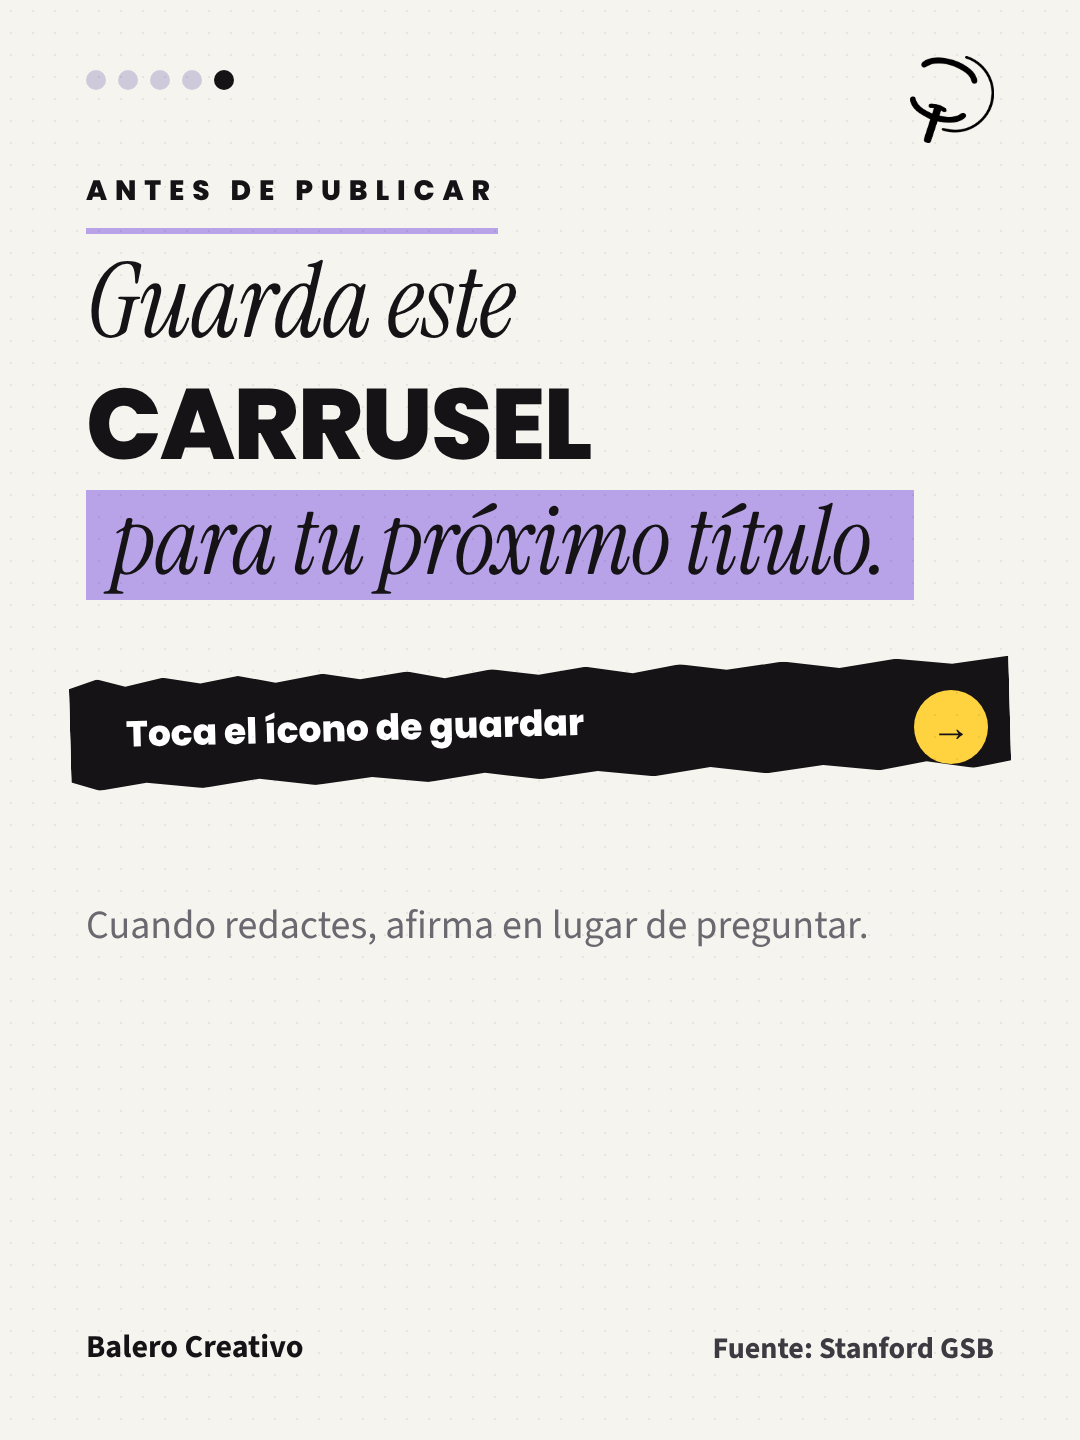
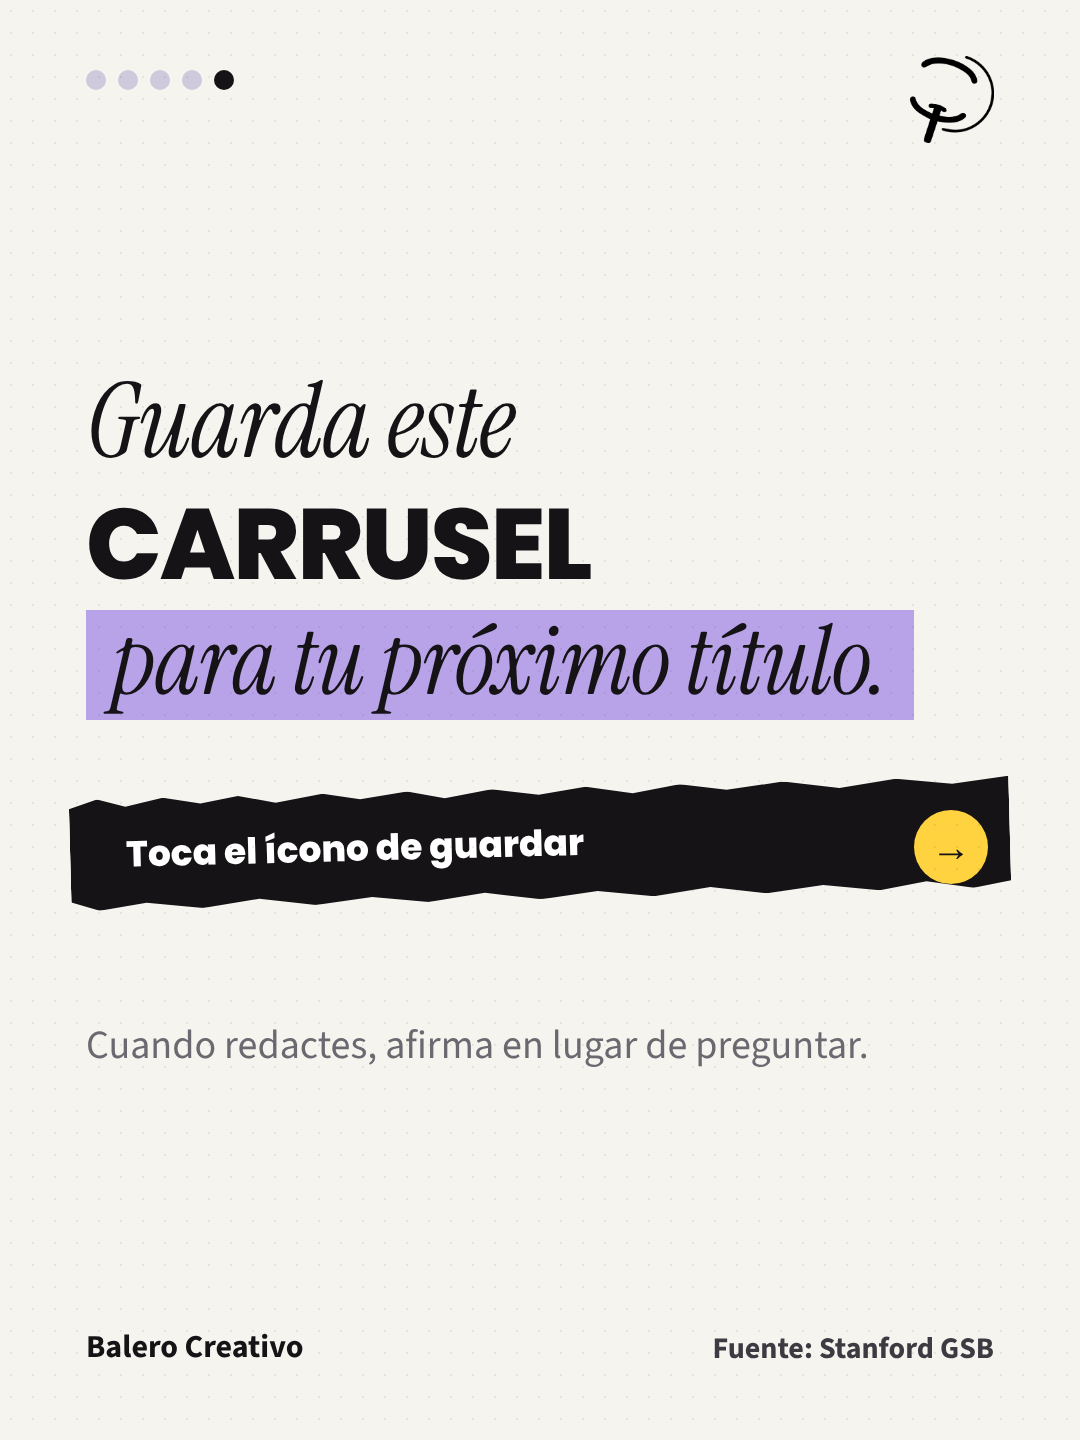
Stanford: ilustración en portada y contenido del slide final centrado
Claude-Session: https://claude.ai/code/session_01Bq7ZC7FDz5LcdZBgNXTuBm

Changed region(s): [[0.0611, 0.125, 0.9472, 0.6562], [0.0917, 0.7188, 0.7944, 0.75]]

diff --git a/clientes/balero/diseno/2026-11/estilo-editorial/semana/stanford.html b/clientes/balero/diseno/2026-11/estilo-editorial/semana/stanford.html
@@ -60,4 +60,4 @@ body{background:#888}
 .meter{position:absolute;left:86px;right:86px;background:#fff;border:4px solid #151316;border-radius:26px;box-shadow:10px 12px 0 #151316;overflow:hidden}
 
 .bigy{position:absolute;left:86px;font:800 330px/.9 Poppins;background:#FFD23F;padding:10px 30px 24px;letter-spacing:-.04em}
-</style></head><body><div class="s" id="s1"><div class="dots"><i style="background:#151316"></i><i style="background:#cfc9dc"></i><i style="background:#cfc9dc"></i><i style="background:#cfc9dc"></i><i style="background:#cfc9dc"></i></div><img class="logo" src="/home/user/balero/.claude/skills/balero-imagenes/assets/logo-balero.png"><div class="serif" style="position:absolute;left:86px;top:340px;font-size:92px;line-height:1">Tu título con pregunta</div><div class="big" style="top:490px;font-size:100px;line-height:1.08">TE CUESTA</div><div class="serif" style="position:absolute;left:86px;top:610px;font-size:150px;line-height:1"><span class="hl">interacción.</span></div><div class="card" style="left:86px;right:86px;top:930px;height:230px;padding:0 50px;display:flex;align-items:center;justify-content:space-between;gap:30px"><div style="font:800 52px/1.1 Poppins">¿Cuánto cuesta un lead?</div><div class="sticker" style="position:static;transform:none;background:#B9A3E8;font-size:30px;white-space:nowrap">↓ interacción</div></div><div class="foot"><span>Balero Creativo</span></div><div style="position:absolute;right:86px;bottom:70px;font:800 30px Poppins;letter-spacing:.14em">DESLIZA →</div></div><div class="s" id="s2"><div class="dots"><i style="background:#cfc9dc"></i><i style="background:#151316"></i><i style="background:#cfc9dc"></i><i style="background:#cfc9dc"></i><i style="background:#cfc9dc"></i></div><img class="logo" src="/home/user/balero/.claude/skills/balero-imagenes/assets/logo-balero.png"><div class="chip">LOS DATOS</div><div class="t" style="top:290px;font-size:100px">Qué analizó<br><span class="serif" style="font-size:1.25em;text-transform:none;font-weight:400;background:#FFD23F;padding:0 18px">Stanford.</span></div><div style="position:absolute;left:86px;top:620px;width:908px;height:150px;background:#fff;border:4px solid #151316;border-radius:26px;box-shadow:8px 9px 0 #151316;display:flex;flex-direction:row;align-items:center;gap:34px;padding:0 44px"><div style="font:800 64px/1 Poppins;min-width:370px;white-space:nowrap">53,030</div><div style="font:600 34px/1.2 'Source Sans Pro',sans-serif">posts de Reddit</div></div><div style="position:absolute;left:86px;top:790px;width:908px;height:150px;background:#fff;border:4px solid #151316;border-radius:26px;box-shadow:8px 9px 0 #151316;display:flex;flex-direction:row;align-items:center;gap:34px;padding:0 44px"><div style="font:800 64px/1 Poppins;min-width:370px;white-space:nowrap">3,078,791</div><div style="font:600 34px/1.2 'Source Sans Pro',sans-serif">artículos académicos</div></div><div style="position:absolute;left:86px;top:960px;width:908px;height:150px;background:#B9A3E8;border:4px solid #151316;border-radius:26px;box-shadow:8px 9px 0 #151316;display:flex;flex-direction:row;align-items:center;gap:34px;padding:0 44px"><div style="font:800 64px/1 Poppins;min-width:370px;white-space:nowrap">22,743</div><div style="font:600 34px/1.2 'Source Sans Pro',sans-serif">experimentos A/B de titulares</div></div><div style="position:absolute;left:86px;top:1130px;width:908px;height:150px;background:#fff;border:4px solid #151316;border-radius:26px;box-shadow:8px 9px 0 #151316;display:flex;flex-direction:row;align-items:center;gap:34px;padding:0 44px"><div style="font:800 64px/1 Poppins;min-width:370px;white-space:nowrap">400</div><div style="font:600 34px/1.2 'Source Sans Pro',sans-serif">personas en un estudio de laboratorio</div></div><div class="foot"><span>Balero Creativo</span></div></div><div class="s" id="s3"><div class="dots"><i style="background:#cfc9dc"></i><i style="background:#cfc9dc"></i><i style="background:#151316"></i><i style="background:#cfc9dc"></i><i style="background:#cfc9dc"></i></div><img class="logo" src="/home/user/balero/.claude/skills/balero-imagenes/assets/logo-balero.png"><div class="chip">LA CONCLUSIÓN</div><div class="t" style="top:290px;font-size:100px">La pregunta<br>suena a <span class="serif" style="font-size:1.25em;text-transform:none;font-weight:400;background:#FFD23F;padding:0 18px">duda.</span></div><div class="body" style="top:610px;width:880px">Los títulos en forma de pregunta reducen la interacción porque el lector los percibe como menos informativos.</div><div class="meter" style="top:830px;height:400px;padding:36px 44px"><div class="lbl" style="left:44px;top:30px;font-size:26px;color:#3d3a42">SE PERCIBE QUÉ TAN INFORMATIVO (ILUSTRATIVO)</div><div class="lbl" style="left:44px;top:150px;white-space:nowrap">Con pregunta</div><div style="position:absolute;left:350px;top:135px;width:190px;height:70px;background:#e6e1ef;border:4px solid #151316;border-radius:35px"></div><div class="lbl" style="left:44px;top:270px;white-space:nowrap">Que afirma</div><div style="position:absolute;left:350px;top:255px;width:500px;height:70px;background:#B9A3E8;border:4px solid #151316;border-radius:35px"></div></div><div class="foot"><span>Balero Creativo</span></div></div><div class="s" id="s4"><div class="dots"><i style="background:#cfc9dc"></i><i style="background:#cfc9dc"></i><i style="background:#cfc9dc"></i><i style="background:#151316"></i><i style="background:#cfc9dc"></i></div><img class="logo" src="/home/user/balero/.claude/skills/balero-imagenes/assets/logo-balero.png"><div class="chip">QUÉ HACER</div><div class="t" style="top:290px;font-size:100px">Afirma,<br>no <span class="serif" style="font-size:1.25em;text-transform:none;font-weight:400;background:#FFD23F;padding:0 18px">preguntes.</span></div><div class="body" style="top:610px;width:880px">Pruébalo en pocas piezas antes de reescribir todo.</div><div class="cmp bad" style="top:820px;height:190px"><div class="m">✗</div><div style="display:flex;align-items:center;gap:36px"><small style="display:inline;margin:0;white-space:nowrap">ASÍ NO</small><span>¿Cuánto cuesta un lead?</span></div></div><div class="cmp good" style="top:1060px;height:190px"><div class="m">✓</div><div style="display:flex;align-items:center;gap:36px"><small style="display:inline;margin:0;white-space:nowrap">ASÍ SÍ</small><span>Cuánto cuesta un lead</span></div></div><div class="foot"><span>Balero Creativo</span></div></div><div class="s" id="s5"><div class="dots"><i style="background:#cfc9dc"></i><i style="background:#cfc9dc"></i><i style="background:#cfc9dc"></i><i style="background:#cfc9dc"></i><i style="background:#151316"></i></div><img class="logo" src="/home/user/balero/.claude/skills/balero-imagenes/assets/logo-balero.png"><div class="kick" style="top:170px">Antes de publicar</div><div class="serif" style="position:absolute;left:86px;top:250px;font-size:104px;line-height:1">Guarda este</div><div class="big" style="top:370px;font-size:100px;line-height:1.08">CARRUSEL</div><div class="serif" style="position:absolute;left:86px;top:490px;font-size:96px;line-height:1"><span class="hl">para tu próximo título.</span></div><div class="tape" style="top:668px;font-family:Poppins;font-weight:800;font-size:36px">Toca el ícono de guardar</div><div class="arrow" style="top:668px;transform:translateY(22px)">→</div><div class="body" style="top:900px;width:880px">Cuando redactes, afirma en lugar de preguntar.</div><div class="foot"><span>Balero Creativo</span></div><div style="position:absolute;right:86px;bottom:70px;font:700 30px 'Source Sans Pro';color:#3d3a42;text-align:right;max-width:640px">Fuente: Stanford GSB</div></div></body></html>
+</style></head><body><div class="s" id="s1"><div class="dots"><i style="background:#151316"></i><i style="background:#cfc9dc"></i><i style="background:#cfc9dc"></i><i style="background:#cfc9dc"></i><i style="background:#cfc9dc"></i></div><img class="logo" src="/home/user/balero/.claude/skills/balero-imagenes/assets/logo-balero.png"><div class="serif" style="position:absolute;left:86px;top:280px;font-size:92px;line-height:1">Tu título con pregunta</div><div class="big" style="top:430px;font-size:100px;line-height:1.08">TE CUESTA</div><div class="serif" style="position:absolute;left:86px;top:550px;font-size:150px;line-height:1"><span class="hl">interacción.</span></div><div class="card" style="left:86px;right:86px;top:790px;height:200px;padding:0 50px;display:flex;align-items:center;justify-content:space-between;gap:30px"><div style="font:800 52px/1.1 Poppins">¿Cuánto cuesta un lead?</div><div class="sticker" style="position:static;transform:none;background:#B9A3E8;font-size:30px;white-space:nowrap">↓ interacción</div></div><div style="position:absolute;left:86px;top:1050px;width:908px;height:210px"><div style="position:absolute;left:0px;bottom:0;width:110px;height:205px;background:#B9A3E8;border:4px solid #151316;border-radius:18px 18px 0 0;box-shadow:6px 7px 0 #151316"></div><div style="position:absolute;left:150px;bottom:0;width:110px;height:140px;background:#cdbff0;border:4px solid #151316;border-radius:18px 18px 0 0;box-shadow:6px 7px 0 #151316"></div><div style="position:absolute;left:300px;bottom:0;width:110px;height:75px;background:#e6e1ef;border:4px solid #151316;border-radius:18px 18px 0 0;box-shadow:6px 7px 0 #151316"></div><div style="position:absolute;left:440px;top:10px;width:468px;height:190px;background:#FFD23F;border:5px solid #151316;border-radius:38px;box-shadow:10px 12px 0 #151316;font:800 160px/190px Poppins;text-align:center">?</div></div><div class="foot"><span>Balero Creativo</span></div><div style="position:absolute;right:86px;bottom:70px;font:800 30px Poppins;letter-spacing:.14em">DESLIZA →</div></div><div class="s" id="s2"><div class="dots"><i style="background:#cfc9dc"></i><i style="background:#151316"></i><i style="background:#cfc9dc"></i><i style="background:#cfc9dc"></i><i style="background:#cfc9dc"></i></div><img class="logo" src="/home/user/balero/.claude/skills/balero-imagenes/assets/logo-balero.png"><div class="chip">LOS DATOS</div><div class="t" style="top:290px;font-size:100px">Qué analizó<br><span class="serif" style="font-size:1.25em;text-transform:none;font-weight:400;background:#FFD23F;padding:0 18px">Stanford.</span></div><div style="position:absolute;left:86px;top:620px;width:908px;height:150px;background:#fff;border:4px solid #151316;border-radius:26px;box-shadow:8px 9px 0 #151316;display:flex;flex-direction:row;align-items:center;gap:34px;padding:0 44px"><div style="font:800 64px/1 Poppins;min-width:370px;white-space:nowrap">53,030</div><div style="font:600 34px/1.2 'Source Sans Pro',sans-serif">posts de Reddit</div></div><div style="position:absolute;left:86px;top:790px;width:908px;height:150px;background:#fff;border:4px solid #151316;border-radius:26px;box-shadow:8px 9px 0 #151316;display:flex;flex-direction:row;align-items:center;gap:34px;padding:0 44px"><div style="font:800 64px/1 Poppins;min-width:370px;white-space:nowrap">3,078,791</div><div style="font:600 34px/1.2 'Source Sans Pro',sans-serif">artículos académicos</div></div><div style="position:absolute;left:86px;top:960px;width:908px;height:150px;background:#B9A3E8;border:4px solid #151316;border-radius:26px;box-shadow:8px 9px 0 #151316;display:flex;flex-direction:row;align-items:center;gap:34px;padding:0 44px"><div style="font:800 64px/1 Poppins;min-width:370px;white-space:nowrap">22,743</div><div style="font:600 34px/1.2 'Source Sans Pro',sans-serif">experimentos A/B de titulares</div></div><div style="position:absolute;left:86px;top:1130px;width:908px;height:150px;background:#fff;border:4px solid #151316;border-radius:26px;box-shadow:8px 9px 0 #151316;display:flex;flex-direction:row;align-items:center;gap:34px;padding:0 44px"><div style="font:800 64px/1 Poppins;min-width:370px;white-space:nowrap">400</div><div style="font:600 34px/1.2 'Source Sans Pro',sans-serif">personas en un estudio de laboratorio</div></div><div class="foot"><span>Balero Creativo</span></div></div><div class="s" id="s3"><div class="dots"><i style="background:#cfc9dc"></i><i style="background:#cfc9dc"></i><i style="background:#151316"></i><i style="background:#cfc9dc"></i><i style="background:#cfc9dc"></i></div><img class="logo" src="/home/user/balero/.claude/skills/balero-imagenes/assets/logo-balero.png"><div class="chip">LA CONCLUSIÓN</div><div class="t" style="top:290px;font-size:100px">La pregunta<br>suena a <span class="serif" style="font-size:1.25em;text-transform:none;font-weight:400;background:#FFD23F;padding:0 18px">duda.</span></div><div class="body" style="top:610px;width:880px">Los títulos en forma de pregunta reducen la interacción porque el lector los percibe como menos informativos.</div><div class="meter" style="top:830px;height:400px;padding:36px 44px"><div class="lbl" style="left:44px;top:30px;font-size:26px;color:#3d3a42">SE PERCIBE QUÉ TAN INFORMATIVO (ILUSTRATIVO)</div><div class="lbl" style="left:44px;top:150px;white-space:nowrap">Con pregunta</div><div style="position:absolute;left:350px;top:135px;width:190px;height:70px;background:#e6e1ef;border:4px solid #151316;border-radius:35px"></div><div class="lbl" style="left:44px;top:270px;white-space:nowrap">Que afirma</div><div style="position:absolute;left:350px;top:255px;width:500px;height:70px;background:#B9A3E8;border:4px solid #151316;border-radius:35px"></div></div><div class="foot"><span>Balero Creativo</span></div></div><div class="s" id="s4"><div class="dots"><i style="background:#cfc9dc"></i><i style="background:#cfc9dc"></i><i style="background:#cfc9dc"></i><i style="background:#151316"></i><i style="background:#cfc9dc"></i></div><img class="logo" src="/home/user/balero/.claude/skills/balero-imagenes/assets/logo-balero.png"><div class="chip">QUÉ HACER</div><div class="t" style="top:290px;font-size:100px">Afirma,<br>no <span class="serif" style="font-size:1.25em;text-transform:none;font-weight:400;background:#FFD23F;padding:0 18px">preguntes.</span></div><div class="body" style="top:610px;width:880px">Pruébalo en pocas piezas antes de reescribir todo.</div><div class="cmp bad" style="top:820px;height:190px"><div class="m">✗</div><div style="display:flex;align-items:center;gap:36px"><small style="display:inline;margin:0;white-space:nowrap">ASÍ NO</small><span>¿Cuánto cuesta un lead?</span></div></div><div class="cmp good" style="top:1060px;height:190px"><div class="m">✓</div><div style="display:flex;align-items:center;gap:36px"><small style="display:inline;margin:0;white-space:nowrap">ASÍ SÍ</small><span>Cuánto cuesta un lead</span></div></div><div class="foot"><span>Balero Creativo</span></div></div><div class="s" id="s5"><div class="dots"><i style="background:#cfc9dc"></i><i style="background:#cfc9dc"></i><i style="background:#cfc9dc"></i><i style="background:#cfc9dc"></i><i style="background:#151316"></i></div><img class="logo" src="/home/user/balero/.claude/skills/balero-imagenes/assets/logo-balero.png"><div class="serif" style="position:absolute;left:86px;top:370px;font-size:104px;line-height:1">Guarda este</div><div class="big" style="top:490px;font-size:100px;line-height:1.08">CARRUSEL</div><div class="serif" style="position:absolute;left:86px;top:610px;font-size:96px;line-height:1"><span class="hl">para tu próximo título.</span></div><div class="tape" style="top:788px;font-family:Poppins;font-weight:800;font-size:36px">Toca el ícono de guardar</div><div class="arrow" style="top:788px;transform:translateY(22px)">→</div><div class="body" style="top:1020px;width:880px">Cuando redactes, afirma en lugar de preguntar.</div><div class="foot"><span>Balero Creativo</span></div><div style="position:absolute;right:86px;bottom:70px;font:700 30px 'Source Sans Pro';color:#3d3a42;text-align:right;max-width:640px">Fuente: Stanford GSB</div></div></body></html>

diff --git a/clientes/balero/diseno/2026-11/estilo-editorial/semana/defs.py b/clientes/balero/diseno/2026-11/estilo-editorial/semana/defs.py
@@ -32,13 +32,13 @@ bars=lambda top:(f'<div class="meter" style="top:{top}px;height:400px;padding:36
   f'<div class="lbl" style="left:44px;top:150px;white-space:nowrap">Con pregunta</div><div style="position:absolute;left:350px;top:135px;width:190px;height:70px;background:#e6e1ef;border:4px solid #151316;border-radius:35px"></div>'
   f'<div class="lbl" style="left:44px;top:270px;white-space:nowrap">Que afirma</div><div style="position:absolute;left:350px;top:255px;width:500px;height:70px;background:#B9A3E8;border:4px solid #151316;border-radius:35px"></div></div>')
 stan=[
- (serif('Tu título con pregunta',340,92)+big('TE CUESTA',490,100)+serif('<span class="hl">interacción.</span>',610,150)+
-   '<div class="card" style="left:86px;right:86px;top:930px;height:230px;padding:0 50px;display:flex;align-items:center;justify-content:space-between;gap:30px"><div style="font:800 52px/1.1 Poppins">¿Cuánto cuesta un lead?</div><div class="sticker" style="position:static;transform:none;background:#B9A3E8;font-size:30px;white-space:nowrap">↓ interacción</div></div>', FD),
+ (serif('Tu título con pregunta',280,92)+big('TE CUESTA',430,100)+serif('<span class="hl">interacción.</span>',550,150)+
+   '<div class="card" style="left:86px;right:86px;top:790px;height:200px;padding:0 50px;display:flex;align-items:center;justify-content:space-between;gap:30px"><div style="font:800 52px/1.1 Poppins">¿Cuánto cuesta un lead?</div><div class="sticker" style="position:static;transform:none;background:#B9A3E8;font-size:30px;white-space:nowrap">↓ interacción</div></div>'+'<div style="position:absolute;left:86px;top:1050px;width:908px;height:210px">'+''.join(f'<div style="position:absolute;left:{x}px;bottom:0;width:110px;height:{h}px;background:{c};border:4px solid #151316;border-radius:18px 18px 0 0;box-shadow:6px 7px 0 #151316"></div>' for x,h,c in ((0,205,'#B9A3E8'),(150,140,'#cdbff0'),(300,75,'#e6e1ef'))) +'<div style="position:absolute;left:440px;top:10px;width:468px;height:190px;background:#FFD23F;border:5px solid #151316;border-radius:38px;box-shadow:10px 12px 0 #151316;font:800 160px/190px Poppins;text-align:center">?</div>'+'</div>', FD),
  (chip('LOS DATOS')+title('Qué analizó',hl('Stanford.'))+hrow(620,150,'53,030','posts de Reddit')+hrow(790,150,'3,078,791','artículos académicos')+hrow(960,150,'22,743','experimentos A/B de titulares','#B9A3E8')+hrow(1130,150,'400','personas en un estudio de laboratorio'), F),
  (chip('LA CONCLUSIÓN')+title('La pregunta','suena a '+hl('duda.'))+body('Los títulos en forma de pregunta reducen la interacción porque el lector los percibe como menos informativos.')+bars(830), F),
  (chip('QUÉ HACER')+title('Afirma,','no '+hl('preguntes.'))+body('Pruébalo en pocas piezas antes de reescribir todo.')+
    hcmp(820,'bad','✗','ASÍ NO','¿Cuánto cuesta un lead?')+hcmp(1060,'good','✓','ASÍ SÍ','Cuánto cuesta un lead'), F),
- (kick('Antes de publicar')+serif('Guarda este',250,104)+big('CARRUSEL',370,100)+serif('<span class="hl">para tu próximo título.</span>',490,96)+tape('Toca el ícono de guardar',668)+body('Cuando redactes, afirma en lugar de preguntar.',900), foot('Fuente: Stanford GSB')),
+ (serif('Guarda este',370,104)+big('CARRUSEL',490,100)+serif('<span class="hl">para tu próximo título.</span>',610,96)+tape('Toca el ícono de guardar',788)+body('Cuando redactes, afirma en lugar de preguntar.',1020), foot('Fuente: Stanford GSB')),
 ]
 # ---------- WORKDAY ----------
 def flow(top):
